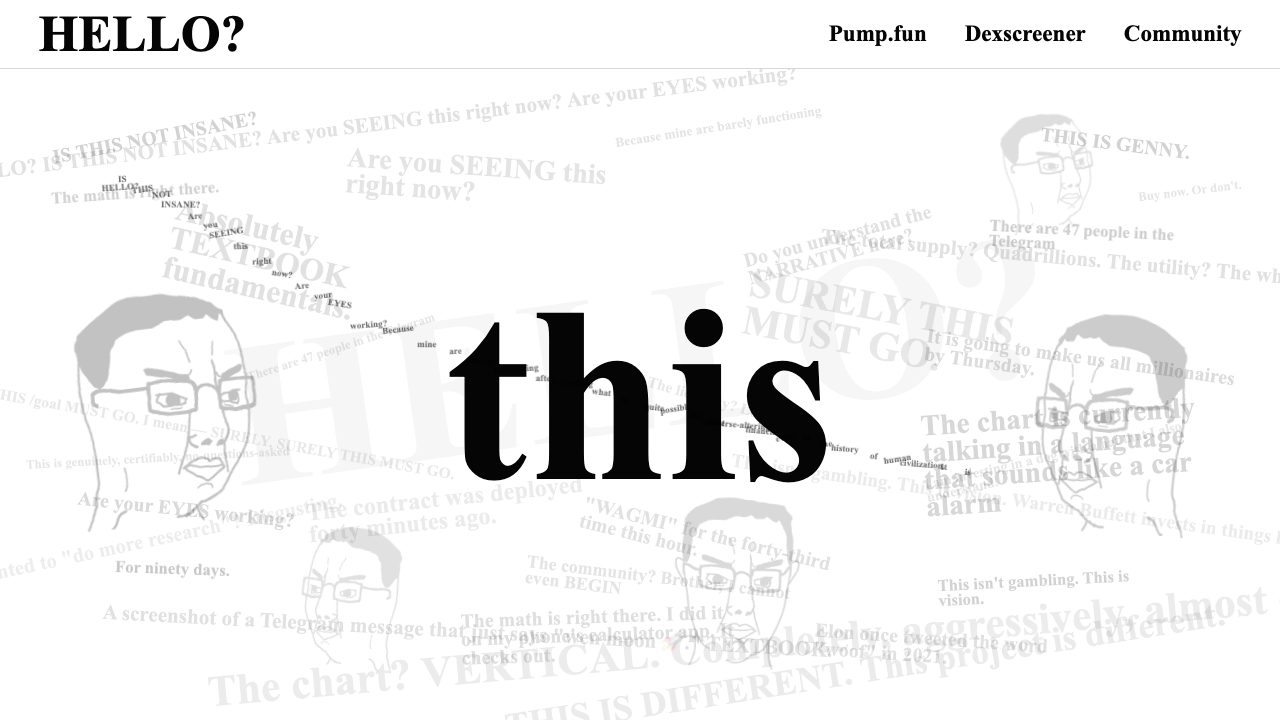
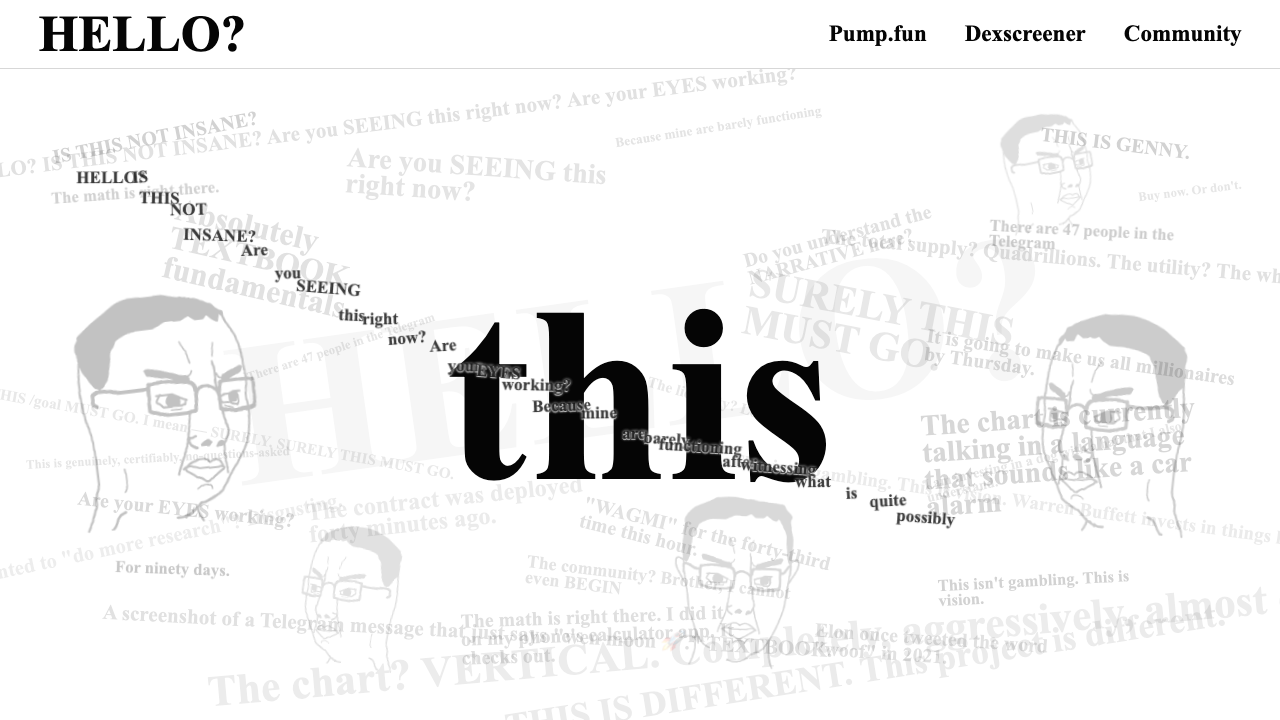
Make cursor trail text readable

diff --git a/index.html b/index.html
@@ -536,34 +536,41 @@
       .cursor-trail {
         position: fixed;
         z-index: 20;
-        color: rgba(5, 5, 5, 0.64);
-        font-size: 9.2px;
+        color: rgba(5, 5, 5, 0.84);
+        font-size: clamp(14px, 1.35vw, 21px);
         font-weight: 700;
-        line-height: 0.85;
+        line-height: 1;
         white-space: nowrap;
         pointer-events: none;
         user-select: none;
+        text-shadow: 0 0 3px rgba(255, 255, 255, 0.95), 0 1px 0 rgba(255, 255, 255, 0.75);
         transform-origin: 50% 50%;
-        animation: wordWake 1.05s cubic-bezier(0.16, 1, 0.3, 1) forwards;
+        animation: wordWake 1.65s cubic-bezier(0.16, 1, 0.3, 1) forwards;
       }
 
       @keyframes wordWake {
         0% {
           opacity: 0;
-          filter: blur(1.4px);
-          transform: translate(-50%, -50%) translate(0, 0) scale(0.72) rotate(var(--trail-rotate));
+          filter: blur(0.5px);
+          transform: translate(-50%, -50%) translate(0, 0) scale(0.92) rotate(var(--trail-rotate));
         }
 
-        14% {
-          opacity: 0.92;
+        10% {
+          opacity: 0.98;
           filter: blur(0);
-          transform: translate(-50%, -50%) translate(calc(var(--trail-x) * 0.18), calc(var(--trail-y) * 0.18)) scale(1) rotate(var(--trail-rotate));
+          transform: translate(-50%, -50%) translate(calc(var(--trail-x) * 0.12), calc(var(--trail-y) * 0.12)) scale(1) rotate(var(--trail-rotate));
+        }
+
+        70% {
+          opacity: 0.9;
+          filter: blur(0);
+          transform: translate(-50%, -50%) translate(calc(var(--trail-x) * 0.72), calc(var(--trail-y) * 0.72)) scale(0.98) rotate(var(--trail-rotate));
         }
 
         100% {
           opacity: 0;
-          filter: blur(0.2px);
-          transform: translate(-50%, -50%) translate(var(--trail-x), var(--trail-y)) scale(0.82) rotate(var(--trail-rotate));
+          filter: blur(0);
+          transform: translate(-50%, -50%) translate(var(--trail-x), var(--trail-y)) scale(0.94) rotate(var(--trail-rotate));
         }
       }
 
@@ -651,6 +658,10 @@
         .messy-copy {
           max-width: 160px;
           font-size: clamp(10px, 3.7vw, 16px);
+        }
+
+        .cursor-trail {
+          font-size: 14px;
         }
 
         .head-art-1 {
@@ -835,21 +846,21 @@
         const distance = Math.hypot(dx, dy) || 1;
         const ux = dx / distance;
         const uy = dy / distance;
-        const side = -10 + Math.random() * 20;
-        const back = 20 + Math.min(distance, 80) * 0.42 + index * 3 + Math.random() * 18;
+        const side = -16 + Math.random() * 32;
+        const back = 18 + Math.min(distance, 90) * 0.28 + index * 4 + Math.random() * 10;
         const driftX = -ux * back - uy * side;
         const driftY = -uy * back + ux * side;
         const trail = document.createElement("span");
 
         trail.className = "cursor-trail";
         trail.textContent = word;
-        trail.style.left = `${x + driftX * 0.12}px`;
-        trail.style.top = `${y + driftY * 0.12}px`;
-        trail.style.setProperty("--trail-rotate", `${-10 + Math.random() * 20}deg`);
+        trail.style.left = `${x}px`;
+        trail.style.top = `${y}px`;
+        trail.style.setProperty("--trail-rotate", `${-6 + Math.random() * 12}deg`);
         trail.style.setProperty("--trail-x", `${driftX}px`);
         trail.style.setProperty("--trail-y", `${driftY}px`);
         document.body.appendChild(trail);
-        window.setTimeout(() => trail.remove(), 1100);
+        window.setTimeout(() => trail.remove(), 1700);
       }
 
       function spawnTrail(event) {
@@ -867,9 +878,9 @@
         const dy = current.y - lastMousePoint.y;
         const distance = Math.hypot(dx, dy);
 
-        if (now - lastTrailAt < 18 && distance < 10) return;
+        if (now - lastTrailAt < 24 && distance < 16) return;
 
-        const steps = Math.min(5, Math.max(1, Math.floor(distance / 18)));
+        const steps = Math.min(4, Math.max(1, Math.floor(distance / 30)));
         for (let step = 1; step <= steps; step += 1) {
           const t = step / steps;
           createTrailWord(lastMousePoint.x + dx * t, lastMousePoint.y + dy * t, dx, dy, step);

diff --git a/DESIGN_AUDIT.md b/DESIGN_AUDIT.md
@@ -6,7 +6,7 @@
 - Use a strict RSVP reader in the center: one word, fixed position, no animation on the main word.
 - Advance the reader automatically without an on-page control button or visible status label.
 - Fill the 100vh page with generated floating stern heads inspired by the supplied reference image, plus uneven exact copypasta fragments around the reader.
-- Emit individual copypasta words from the cursor on pointer movement.
+- Emit readable individual copypasta words from the cursor on pointer movement.
 - Keep the background copy strict: decorative text must be literal text from the supplied copypasta, not new jokes or paraphrases.
 
 ## Audit
@@ -14,7 +14,7 @@
 - Main reader: one active `.token` is rendered at a time from the copypasta word list.
 - Speed: `STEP_DELAY` is calculated from the average-reading cadence constant.
 - Interaction: the reader advances on its own; arrow-key stepping remains supported for manual checking.
-- Cursor effect: pointer movement creates individual fading words and removes them after animation.
+- Cursor effect: pointer movement creates larger, darker individual fading words and removes them after animation.
 - Layout: the active word uses `white-space: nowrap` and shrinks if it would exceed the viewport.
 - Theme: white background, black/gray Times New Roman, no color-heavy treatment.
 - Generated image assets: Imagegen produced a three-head chroma-key sheet, locally keyed into transparent PNGs, then split into three floating assets.

diff --git a/README.md b/README.md
@@ -17,7 +17,7 @@ Behavior:
 - The reader advances on its own at a calmer average-reading pace.
 - Left and right arrow keys step one word at a time for manual checking.
 - The white 100vh canvas is filled with generated floating chud-head PNGs and uneven fragments pulled only from the copypasta.
-- Moving the mouse leaves a word-by-word copypasta wake behind the cursor.
+- Moving the mouse leaves a readable word-by-word copypasta wake behind the cursor.
 
 Generated image assets:
 

diff --git a/REFERENCE_AUDIT.md b/REFERENCE_AUDIT.md
@@ -48,4 +48,4 @@ Generated-head adjustment:
 Cursor-and-label adjustment:
 
 - The visible timing/status labels were removed from the page.
-- The cursor trail now emits one word at a time along the mouse path.
+- The cursor trail now emits one readable word at a time along the mouse path.